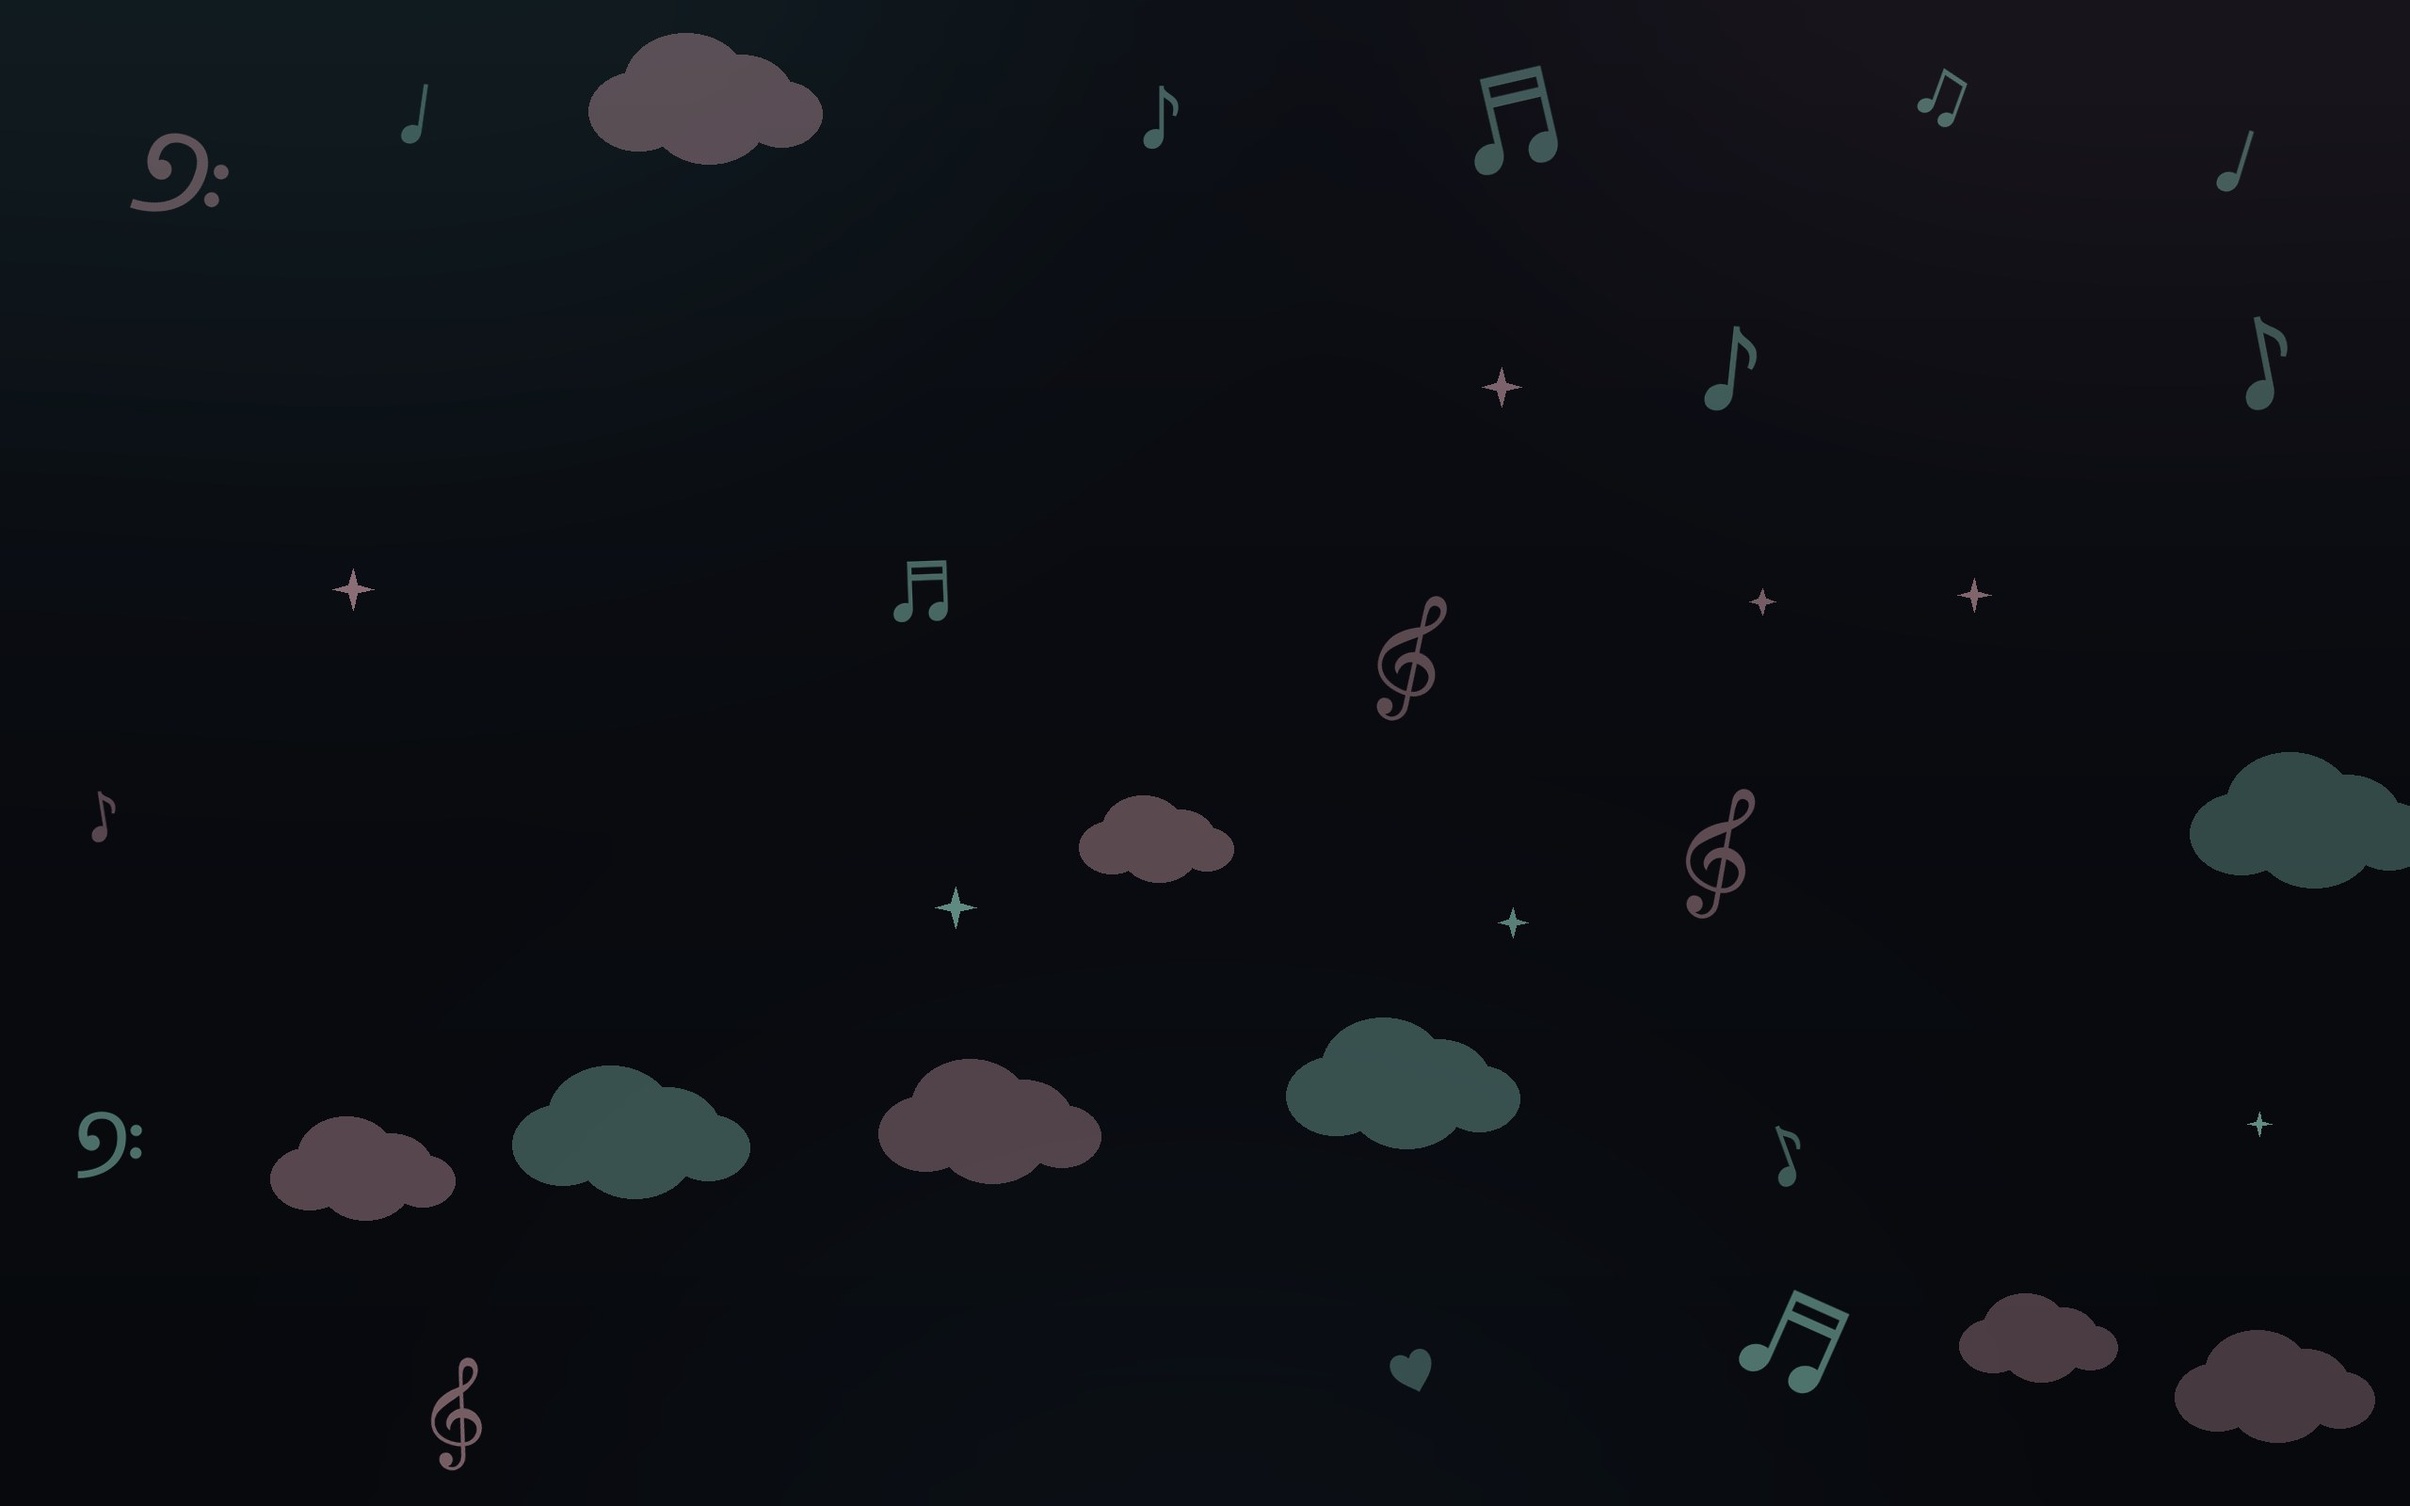
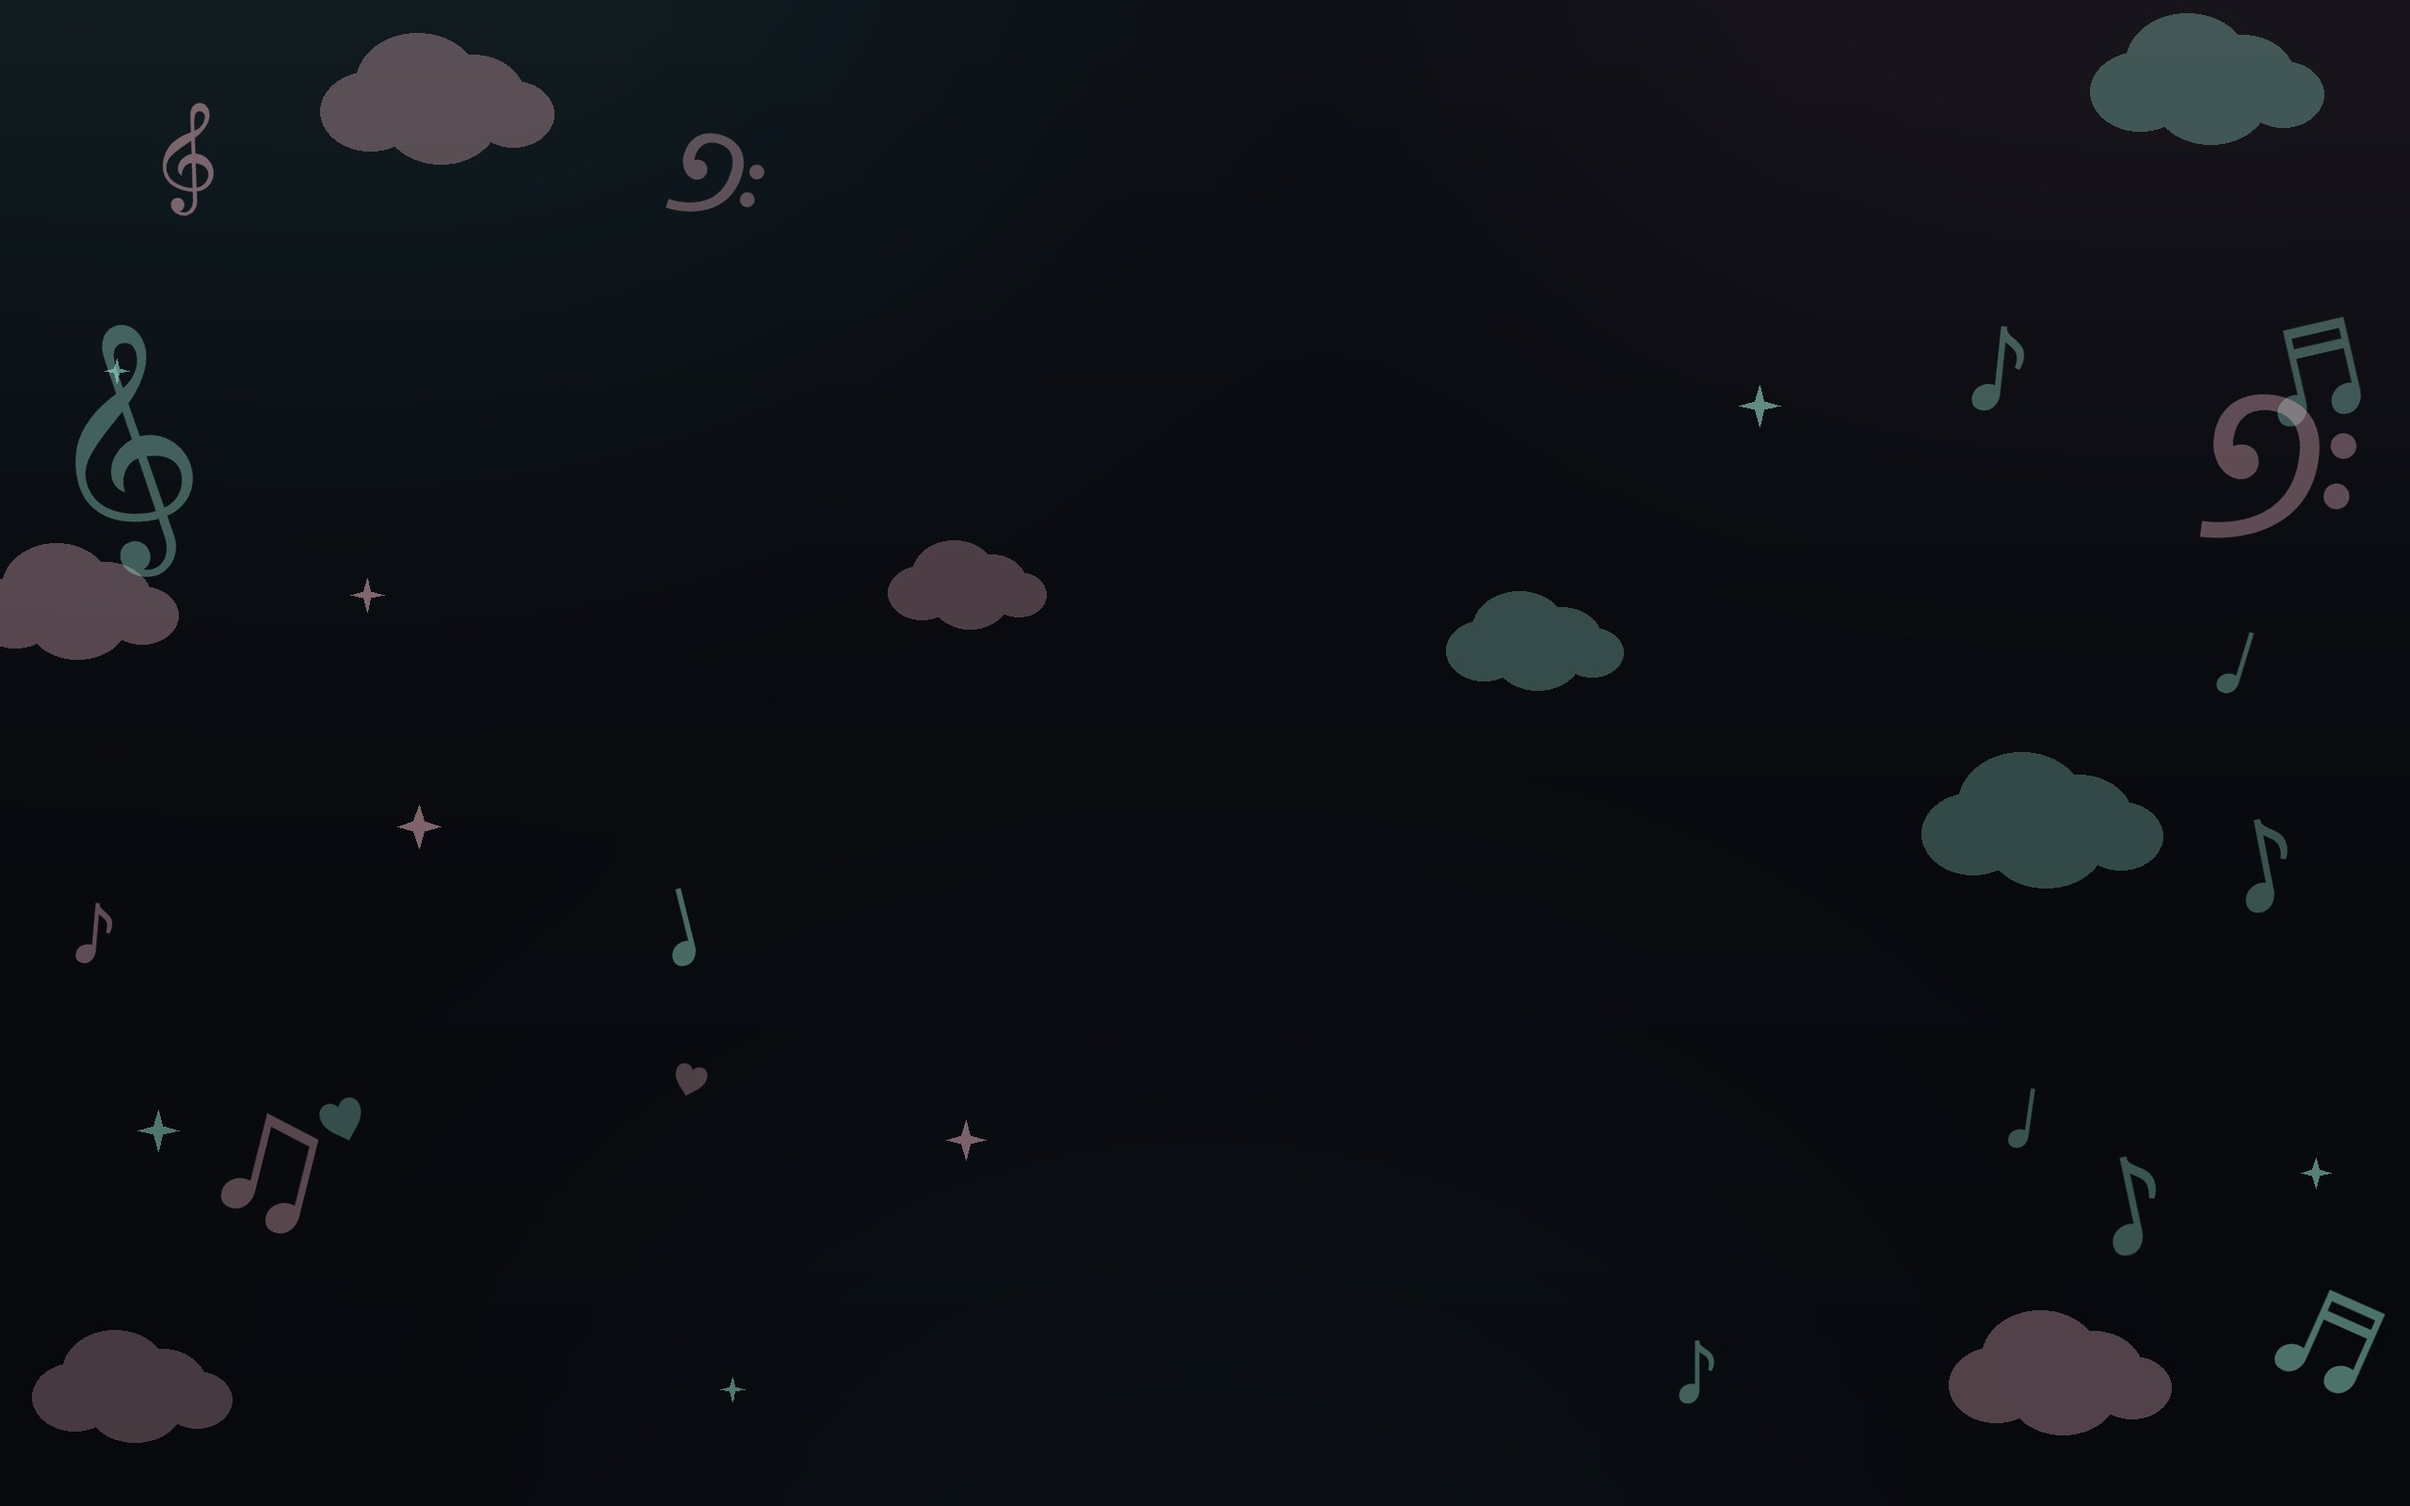
Add files via upload

diff --git a/style.css b/style.css
@@ -422,17 +422,42 @@ body.has-bg-image #searchInput { background: rgba(21, 24, 35, 0.9); }
     border: 1px solid var(--border);
   }
 
-  /* 表格紧凑化：缩小字号与内边距，隐藏次要列，让「类型」「付费礼物」在小屏直接可见 */
-  .song-table { min-width: 540px; font-size: 12.5px; }
+  /* 表格紧凑化：不再横向滚动，隐藏次要列让所有列完整适配屏宽——
+     只有去掉横向滚动容器，表头 sticky 才能以页面为基准吸顶 */
+  .table-wrap { overflow-x: visible; -webkit-overflow-scrolling: auto; }
+  .song-table { min-width: 0; width: 100%; table-layout: fixed; font-size: 12.5px; }
   .song-table thead th { padding: 8px; font-size: 12px; }
-  .song-table td { padding: 7px 8px; }
-  .th-note, .td-note { display: none; }
-  .td-gift { white-space: nowrap; }
-  .td-idx { width: 26px; font-size: 12px; }
-  .td-title { min-width: 96px; }
-  .td-artist { min-width: 76px; }
+  .song-table td { padding: 7px 8px; overflow: hidden; }
+  .th-note, .td-note, .th-lang, .td-lang, .th-link, .td-link { display: none; }
+  /* 固定列宽：# / 类型 / 付费礼物 定宽，歌名占剩余空间 */
+  .song-table th:nth-child(1) { width: 26px; }
+  .song-table th:nth-child(4) { width: 76px; }
+  .song-table th:nth-child(6) { width: 66px; }
+  .song-table th:nth-child(3) { width: 27%; }
+
+  /* 表头随列表滚动吸顶：贴在吸顶搜索框正下方 */
+  .song-table thead th {
+    position: sticky;
+    top: var(--sticky-h);
+    z-index: 50;
+    background: #1a1e2c;
+  }
+
+  /* 长歌名/长歌手名允许换行，避免撑破固定布局 */
+  .td-title, .td-artist { overflow-wrap: anywhere; white-space: normal; }
+  .td-title { min-width: 0; }
+  .type-tag {
+    display: inline-block;
+    max-width: 100%;
+    overflow: hidden;
+    text-overflow: ellipsis;
+    white-space: nowrap;
+    vertical-align: middle;
+    padding: 1px 6px;
+    font-size: 10.5px;
+  }
+  .gift-val { padding: 1px 6px; font-size: 11px; white-space: nowrap; }
+  .td-idx { font-size: 12px; }
   .title-zh { font-size: 11px; }
-  .type-tag { padding: 1px 7px; font-size: 11px; }
-  .gift-val { padding: 1px 7px; font-size: 11px; }
   .song-link { font-size: 12px; }
 }

diff --git a/app.js b/app.js
@@ -275,6 +275,7 @@ function render() {
                     "动画/游戏插曲": "tag-anime", "VOCALOID/ボカロ": "tag-vocaloid" }[song.type] || "";
       tag.className = "type-tag " + cls;
       tag.textContent = song.type;
+      tag.title = song.type; // 移动端截断时悬停/长按可看全称
       tdType.appendChild(tag);
     }
     tr.appendChild(tdType);
@@ -310,6 +311,7 @@ function render() {
 
     // 收听链接
     const tdLink = document.createElement("td");
+    tdLink.className = "td-link";
     if (song.link) {
       const a = document.createElement("a");
       a.className = "song-link";

diff --git a/index.html b/index.html
@@ -78,10 +78,10 @@
             <th>歌名</th>
             <th>歌手</th>
             <th>类型</th>
-            <th>语言</th>
+            <th class="th-lang">语言</th>
             <th class="th-gift">付费礼物</th>
             <th class="th-note">备注</th>
-            <th></th>
+            <th class="th-link"></th>
           </tr>
         </thead>
         <tbody id="songBody"></tbody>
